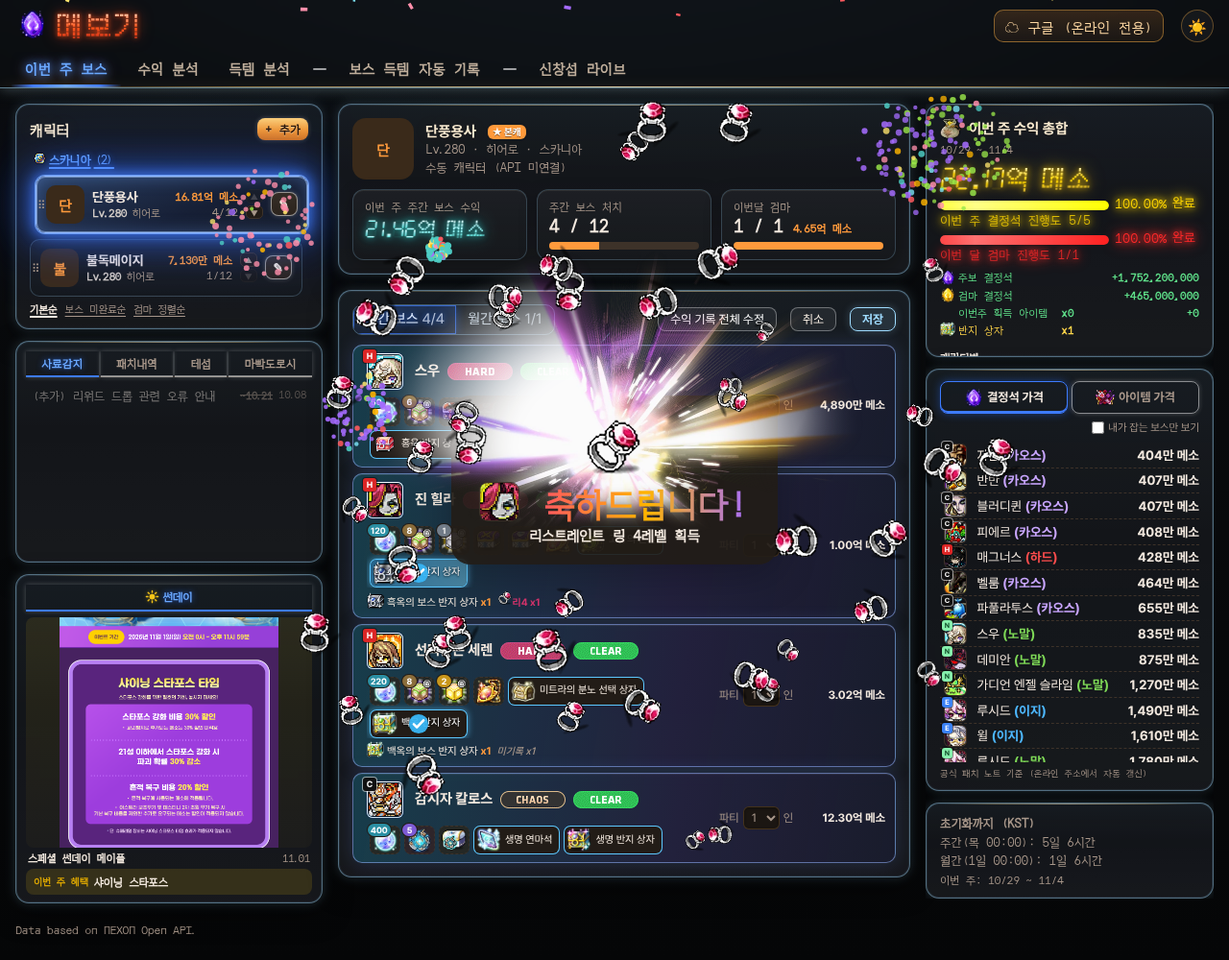
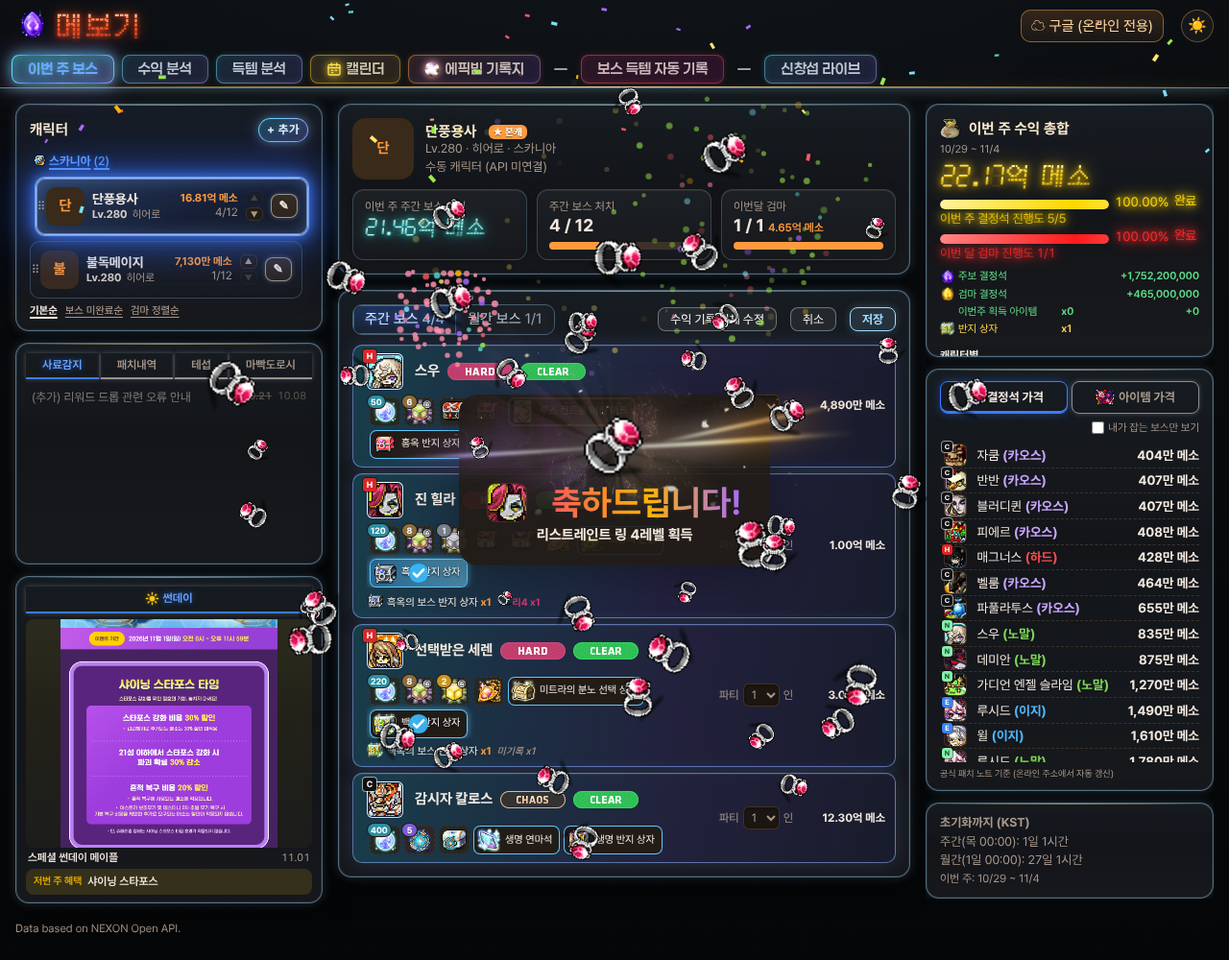
b362: 에픽빔 클립 카드 4줄 제목 정렬(고정 아이콘 칸 grid·말줄임), b363: 라이브 화면 '영역 보기' 버튼·겹쳐 그리기 제거, test_b362

diff --git a/index.html b/index.html
@@ -2159,20 +2159,20 @@ header .hbtn.arbtn.on{border-color:#5fd38a;color:#bff5d0}
 /* t523: 고급 네온 버튼 — 안내창 '확인' · '영역 숨기기/보기' · 캐릭터 '추가' (b297ui 네온과 같은 색: 시안 → 보라) */
 :root{--nb1:#5ee7ff;--nb2:#b48cff;--nbbg:rgba(12,16,30,.78);--nbtx:#eaf6ff}
 [data-theme=light]{--nb1:#0aa6d6;--nb2:#7b53e6;--nbbg:rgba(255,255,255,.9);--nbtx:#1a2236}
-#arGuide .ar-gf .btn[data-arg="ok"],#arPanel .btn.ar-roib,#addCharBtn,#importAccBtn{position:relative;isolation:isolate;color:var(--nbtx)!important;font-weight:700;letter-spacing:.04em;
+#arGuide .ar-gf .btn[data-arg="ok"],#addCharBtn,#importAccBtn{position:relative;isolation:isolate;color:var(--nbtx)!important;font-weight:700;letter-spacing:.04em;
   background:linear-gradient(var(--nbbg),var(--nbbg)) padding-box,linear-gradient(135deg,var(--nb1),var(--nb2)) border-box!important;border:1.5px solid transparent!important;border-radius:999px;
   box-shadow:0 0 10px color-mix(in srgb,var(--nb1) 38%,transparent),0 0 22px color-mix(in srgb,var(--nb2) 22%,transparent),inset 0 0 10px color-mix(in srgb,var(--nb1) 14%,transparent)!important;
   text-shadow:0 0 8px color-mix(in srgb,var(--nb1) 55%,transparent);transition:box-shadow .2s,transform .15s,filter .2s}
-[data-theme=light] #arGuide .ar-gf .btn[data-arg="ok"],[data-theme=light] #arPanel .btn.ar-roib,[data-theme=light] #addCharBtn,[data-theme=light] #importAccBtn{
+[data-theme=light] #arGuide .ar-gf .btn[data-arg="ok"],[data-theme=light] #addCharBtn,[data-theme=light] #importAccBtn{
   box-shadow:0 2px 10px rgba(40,60,120,.12),0 0 12px color-mix(in srgb,var(--nb1) 26%,transparent),inset 0 1px 0 rgba(255,255,255,.9)!important;text-shadow:none}
-#arGuide .ar-gf .btn[data-arg="ok"]:hover,#arPanel .btn.ar-roib:hover,#addCharBtn:hover,#importAccBtn:hover{transform:translateY(-1px);filter:brightness(1.08);
+#arGuide .ar-gf .btn[data-arg="ok"]:hover:hover,#addCharBtn:hover,#importAccBtn:hover{transform:translateY(-1px);filter:brightness(1.08);
   box-shadow:0 0 14px color-mix(in srgb,var(--nb1) 60%,transparent),0 0 34px color-mix(in srgb,var(--nb2) 35%,transparent),inset 0 0 12px color-mix(in srgb,var(--nb1) 22%,transparent)!important}
-#arGuide .ar-gf .btn[data-arg="ok"]:active,#arPanel .btn.ar-roib:active,#addCharBtn:active,#importAccBtn:active{transform:translateY(0) scale(.98)}
-#arGuide .ar-gf .btn[data-arg="ok"]:focus-visible,#arPanel .btn.ar-roib:focus-visible,#addCharBtn:focus-visible,#importAccBtn:focus-visible{outline:2px solid var(--nb1);outline-offset:3px}
+#arGuide .ar-gf .btn[data-arg="ok"]:active:active,#addCharBtn:active,#importAccBtn:active{transform:translateY(0) scale(.98)}
+#arGuide .ar-gf .btn[data-arg="ok"]:focus-visible:focus-visible,#addCharBtn:focus-visible,#importAccBtn:focus-visible{outline:2px solid var(--nb1);outline-offset:3px}
 #arGuide .ar-gf .btn[data-arg="ok"]{min-width:120px;padding:8px 26px}
 #view .card.empty #importAccBtn::after,#view .dmkey #importAccBtn::after{box-shadow:0 0 8px 1px color-mix(in srgb,var(--nb1) 60%,transparent),0 0 26px 4px color-mix(in srgb,var(--nb2) 30%,transparent)}
 #arPanel .ar-prof{margin-left:8px;font-size:.74rem;font-weight:600;letter-spacing:.02em;color:var(--gtxt);opacity:.85;white-space:nowrap}
-@media (prefers-reduced-motion:reduce){#arGuide .ar-gf .btn[data-arg="ok"],#arPanel .btn.ar-roib,#addCharBtn,#importAccBtn{transition:none}}
+@media (prefers-reduced-motion:reduce){#arGuide .ar-gf .btn[data-arg="ok"],#addCharBtn,#importAccBtn{transition:none}}
 
 /* t520u: 최근 보유 메소 — '이번달 검마' 칸 바로 위 (3열 중 셋째 칸에 맞춤) */
 .mesorow{display:grid;grid-template-columns:repeat(3,minmax(0,1fr));gap:10px;margin:0 0 4px}
@@ -2424,13 +2424,18 @@ nav.tabs button .ecico{display:inline-block;width:16px;height:16px;vertical-alig
 .ecthumb{position:relative;aspect-ratio:16/9;background:#000}.ecthumb img{width:100%;height:100%;object-fit:cover;display:block}
 .ecplay{position:absolute;inset:0;margin:auto;width:38px;height:38px;border-radius:50%;display:grid;place-items:center;background:rgba(0,0,0,.55);color:#fff;font-size:15px;box-shadow:0 0 10px rgba(255,154,60,.7)}
 .ecdur{position:absolute;right:6px;bottom:5px;font-size:.7rem;padding:1px 6px;border-radius:6px;background:rgba(0,0,0,.65);color:#ffd8a8}
-.ectl{padding:8px 10px 10px;display:flex;flex-direction:column;gap:4px;font-size:.84rem;color:#f1e6ff}
-.ectl>div{display:flex;align-items:center;gap:6px;min-width:0;white-space:nowrap}.ectl>div>span:last-child{overflow:hidden;text-overflow:ellipsis}
+.ectl{padding:8px 10px 10px;display:flex;flex-direction:column;gap:4px;font-size:.84rem;color:#f1e6ff;min-width:0}
+.ectl>div{display:grid;grid-template-columns:24px minmax(0,1fr);column-gap:8px;align-items:center;min-height:24px;min-width:0;white-space:nowrap;line-height:1.25}
+.ectl>div>span:last-child{display:block;min-width:0;overflow:hidden;text-overflow:ellipsis;white-space:nowrap}
+.ectl>.ecl1{grid-template-columns:minmax(0,1fr);min-height:18px}
 .ecl1{font-variant-numeric:tabular-nums;color:#ffcf8a;font-size:.8rem}
-.ectl img,.ectl .bicon{width:22px!important;height:22px!important;flex:none;border-radius:4px}
-.ectl .avatar.ecav{width:24px;height:24px;flex:none;border-radius:50%;overflow:hidden;display:grid;place-items:center;font-size:.7rem;background:rgba(255,255,255,.08)}
-.ectl .avatar.ecav img{width:48px!important;height:48px!important;object-fit:cover;object-position:50% 30%;border-radius:0}
-.ecq{width:22px;height:22px;flex:none;display:grid;place-items:center;border-radius:4px;background:rgba(255,255,255,.08);opacity:.6}
+.ectl .ecic{width:24px;height:24px;display:grid;place-items:center;overflow:hidden;font-style:normal;flex:none}
+.ectl .ecic>*{max-width:24px;max-height:24px}
+.ectl .ecic img,.ectl .ecic .bicon{width:22px!important;height:22px!important;object-fit:contain;flex:none;border-radius:4px;margin:0!important;vertical-align:middle}
+.ectl .ecic .hongico{position:relative;width:22px;height:22px;display:block;gap:0}.ectl .ecic .hongico>:first-child{width:22px!important;height:22px!important}.ectl .ecic .hongico>:last-child{position:absolute;right:-1px;bottom:-1px;width:11px!important;height:11px!important}
+.ectl .avatar.ecav{width:24px;height:24px;flex:none;border-radius:50%;overflow:hidden;display:grid;place-items:center;font-size:.7rem;background:rgba(255,255,255,.08);margin:0}
+.ectl .avatar.ecav img{width:48px!important;height:48px!important;max-width:none;max-height:none;object-fit:cover;object-position:50% 30%;border-radius:0}
+.ecq{width:22px;height:22px;flex:none;display:grid;place-items:center;border-radius:4px;background:rgba(255,255,255,.08);opacity:.6;font-style:normal}
 .ecempty{padding:40px;text-align:center;opacity:.6}
 .ecpg{display:flex;justify-content:center;gap:6px;margin-top:16px}
 .ecpb{cursor:pointer;font:inherit;min-width:34px;padding:5px 10px;border-radius:8px;border:1.5px solid rgba(255,154,60,.5);background:transparent;color:#ffd8a8}
@@ -2439,7 +2444,7 @@ nav.tabs button .ecico{display:inline-block;width:16px;height:16px;vertical-alig
 .ecbox{position:relative;width:min(92vw,1100px);border-radius:14px;overflow:hidden;background:#0d0a14;border:1.5px solid #ff9a3c;box-shadow:0 0 24px rgba(255,154,60,.6),0 0 60px rgba(180,107,255,.35)}
 .ecbox canvas{display:block;width:100%;height:auto;background:#000}
 .ecbar{height:4px;background:rgba(255,255,255,.1)}.ecbar i{display:block;height:100%;width:0;background:linear-gradient(90deg,#ff9a3c,#b46bff)}
-.ecmeta{display:flex;flex-wrap:wrap;align-items:center;gap:6px 18px;padding:10px 14px;color:#f1e6ff}.ecmeta .ectl{flex-direction:row;flex-wrap:wrap;gap:6px 18px;padding:0}
+.ecmeta{display:flex;flex-wrap:wrap;align-items:center;gap:6px 18px;padding:10px 14px;color:#f1e6ff}.ecmeta .ectl>div{display:flex;gap:6px}.ecmeta .ectl{flex-direction:row;flex-wrap:wrap;gap:6px 18px;padding:0}
 .ectime{margin-left:auto;font-variant-numeric:tabular-nums;color:#ffcf8a}
 .ecx{position:absolute;top:8px;right:8px;z-index:1;cursor:pointer;width:32px;height:32px;border-radius:50%;border:1px solid rgba(255,255,255,.4);background:rgba(0,0,0,.6);color:#fff;font-size:16px}
 [data-theme=light] .eccard{background:#fffaf4;border-color:rgba(224,112,0,.5)}[data-theme=light] .ectl{color:#3a2a4a}[data-theme=light] .ecl1{color:#a05000}[data-theme=light] .echd h2{color:#a05000;text-shadow:none}
@@ -8170,7 +8175,7 @@ function renderAuto(){ const v=$('#view'); v.innerHTML='<div id="arPanel" class=
 function arPanel(open){ if(open&&typeof tab!=='undefined'&&tab!=='auto'&&typeof render==='function'){ tab='auto'; render(); return; } arPanelPaint(); }
 function arPanelBind(p){ {
     p.addEventListener('click',e=>{ const a=e.target.closest('[data-ar]')?.dataset.ar; if(!a) return;
-      if(a==='guide') return; if(a==='roi'){ ARX.cfg.roi=!ARX.cfg.roi; arSave(); } else if(a==='stop') arDisconnect(); else if(a==='connect') arConnect(); else if(a.startsWith('pick:')){ const [,i,k]=a.split(':'), A=(ARX.amb||[])[+i]; if(A){ ARX.amb.splice(+i,1); arRecord(k,A.score,A.via+' 직접 고름'); arPanelPaint(); } }
+      if(a==='guide') return; if(a==='stop') arDisconnect(); else if(a==='connect') arConnect(); else if(a.startsWith('pick:')){ const [,i,k]=a.split(':'), A=(ARX.amb||[])[+i]; if(A){ ARX.amb.splice(+i,1); arRecord(k,A.score,A.via+' 직접 고름'); arPanelPaint(); } }
       else if(a==='bindmap'){ const t=arNorm(ARX.mapText), bid=ARX.cfg.boss; if(t&&bid){ ARX.cfg.mapAlias[t]={boss:bid,diff:''}; arSave(); arLog(`맵 등록: ${ARX.mapText} → ${findBoss(bid)?.name}`); } }
       else if(a==='reset'){ const keep=ARX.cfg.mapAlias; ARX.cfg=Object.assign({},AR_DEF,{mapAlias:keep}); arSave(); }
       arPanelPaint(); });
@@ -8202,14 +8207,14 @@ function arPanelLive(p,pipOnly){ p=p||$('#arPanel'); if(!p||(!pipOnly&&(p.hidden
   { const cb=arPipCard(p); if(cb) arPipBind(cb); }
   if(arPipQ(p,'.ar-cboss .ar-b')) arSetH(arPipQ(p,'.ar-cboss .ar-b'),((bst==='rew'?`<div class="ar-bst rew"><i class="ar-dot"></i>보상 인식 중</div>`:'')+(bst==='rew'&&detB?`<div class="ar-big ar-bline">${typeof bossIcon==='function'?bossIcon(detB):''}<span class="ar-bn">${esc(detB.name)}</span>${detD?' '+(typeof diffImg==='function'?diffImg(detD):esc(D[detD])):''}</div>`
     :`<div class="ar-big dim">-</div>`))+arClrLine()); const bc=arPipQ(p,'.ar-cboss .ar-b'); if(bc&&bc._arFit!==bc._arH){ bc._arFit=bc._arH; arFitBoss(); } if(ARX.pip) arPipRec();
-  if(pipOnly) return; q('.ar-roib').textContent=c.roi?'영역 숨기기':'영역 보기'; { const pl=q('.ar-prof'); if(pl){ const L=arProfLab(); pl.textContent=L?L:(ARX.stream?'해상도 확인 중…':''); pl.title=L?'화면 공유 영상에서 자동 감지한 해상도·UI 비율':''; } } 
+  if(pipOnly) return; { const pl=q('.ar-prof'); if(pl){ const L=arProfLab(); pl.textContent=L?L:(ARX.stream?'해상도 확인 중…':''); pl.title=L?'화면 공유 영상에서 자동 감지한 해상도·UI 비율':''; } } 
   }
 function arPanelPaint(){ const p=$('#arPanel'); if(!p||p.hidden) return; const c=ARX.cfg, t=arTarget(), on=arLive(), dn=k=>({log:'획득 로그',banner:'획득 배너',item:'바닥 아이콘',map:'맵 이름',name:'상태바 이름'})[k];
   const detC=S.characters.find(x=>x.id===ARX.det.cid), bst=arBossState(), detB=(ARX.det.boss&&findBoss(ARX.det.boss))||(bst&&bst!=='rew'&&ARX.mapSt&&findBoss(ARX.mapSt.boss)), detD=ARX.det.boss?ARX.det.diff:(ARX.mapSt?.diff||''), mapN=(AR_REWARD.find(m=>m[1]===ARX.det.boss)||[''])[0], acc=detC&&typeof accOf==='function'?accOf(detC):null;
   if(!p.querySelector('.ar-g')){ p.innerHTML=`<div class="ar-sbar"></div><div class="ar-g">
     <div class="card ar-c ar-cchar"><h2>캐릭터 정보</h2><div class="ar-b"></div></div>
     <div class="card ar-c ar-cboss"><h2>보상 맵 인식 <span class="hspace"></span><button type="button" class="btn sm ar-pipb" title="작은 창으로 항상 맨 위에 띄우기 (크롬/엣지 116+)">PIP</button></h2><div class="ar-pipmsg" hidden></div><div class="ar-b"></div></div>
-    <div class="card ar-c ar-clive"><h2>라이브 화면 <span class="hspace"></span><button type="button" class="btn sm ar-roib" data-ar="roi"></button><span class="ar-prof"></span></h2><div class="ar-vw"><video class="ar-vid" muted playsinline autoplay></video><canvas class="ar-prev" width="1280" height="720"></canvas><div class="ar-vnone">연결하면 게임 화면이 여기에 보여요</div></div><div class="ar-b ar-regs"></div></div>
+    <div class="card ar-c ar-clive"><h2>라이브 화면 <span class="hspace"></span><span class="ar-prof"></span></h2><div class="ar-vw"><video class="ar-vid" muted playsinline autoplay></video><canvas class="ar-prev" width="1280" height="720"></canvas><div class="ar-vnone">연결하면 게임 화면이 여기에 보여요</div></div><div class="ar-b ar-regs"></div></div>
     <div class="card ar-c ar-crec"><h2>현재까지 기록</h2><div class="ar-b"></div></div>
     <div class="card ar-c ar-cset" hidden><div class="ar-b"></div></div></div>`; }
   const q=s=>p.querySelector(s), vid=q('.ar-vid'); if(vid){ const ss=on?ARX.stream:null; if(vid.srcObject!==ss){ vid.srcObject=ss; if(ss) vid.play().catch(()=>{}); } q('.ar-vw').classList.toggle('on',!!ss||!!ARX.testSrc); }
@@ -8230,10 +8235,7 @@ function arPanelPaint(){ const p=$('#arPanel'); if(!p||p.hidden) return; const c
     ${ARX.ocrErr?'<p class="ar-err">글자 읽기(OCR) 불러오기 실패</p>':''}`);
   arPrev(); }
 function arPrev(){ const cv=$('#arPanel .ar-prev'); if(!cv) return; const g=cv.getContext('2d'); g.clearRect(0,0,cv.width,cv.height); const src=ARX.stream?null:ARX.testSrc;
-  if(src&&(src.videoWidth||src.width)) g.drawImage(src,0,0,cv.width,cv.height); if(!ARX.cfg.roi) return;
-  const fs=Math.max(11,Math.round(cv.width/48)); g.font=`700 ${fs}px system-ui,sans-serif`; g.textBaseline='bottom';
-  for(const [k,col,lb] of [['item','#ffb347','아이템 인식 영역'],['banner','#ffe066','획득 배너'],['log','#ff6bd0','획득 로그'],['map','#5ec8ff','미니맵 맵 이름'],['name','#7dff9a','닉네임'],['inv','#c0ff40','인벤토리 메소'],['sto','#40e0ff','창고 메소'],['stoInv','#40e0ff','창고 옆 인벤 메소']]){ const r=arR(k,ARX.video||ARX.testSrc); if(!r) continue; const x=r.x*cv.width, y=r.y*cv.height, w=r.w*cv.width, h=r.h*cv.height; g.strokeStyle=col; g.lineWidth=2; g.strokeRect(x,y,w,h);
-    const tw=g.measureText(lb).width+10, ly=y-fs-6<0?y+fs+6:y, lx=Math.min(Math.max(0,x),cv.width-tw); g.fillStyle='rgba(8,10,20,.82)'; g.fillRect(lx,ly-fs-6,tw,fs+6); g.fillStyle=col; g.fillText(lb,lx+5,ly-2); } }
+  if(src&&(src.videoWidth||src.width)) g.drawImage(src,0,0,cv.width,cv.height); } /* b363: '영역 보기' 겹쳐 그리기 제거 (인식 영역 arR 은 그대로) */
 /* b287: 분석 상태 — 분석 fps(배너 감시) · 놓친 프레임(영상 프레임 중 감시 못 한 것) · 바닥 찾기 횟수·건너뜀 · 1회 시간 */
 function arPerfText(){ const f=ARX.pf; if(!f||!ARX.video) return '분석 fps - · 놓친 프레임 -'; const s=Math.max(.001,(performance.now()-f.t0)/1000), L=f.last||{watched:0,missed:0,t:f.t0}, ds=Math.max(.001,(performance.now()-L.t)/1000);
   const fps=(f.watched-L.watched)/ds; return `분석 fps <b>${fps.toFixed(0)}</b> · 놓친 프레임 <b>${f.missed}</b>${f.watched?` (${(100*f.missed/(f.watched+f.missed)).toFixed(1)}%)`:''} · 배너 매칭 ${f.banners}회${f.banners?` (${(f.bannerMs/f.banners).toFixed(0)}ms)`:''} · 바닥/공중 ${f.items}회${ARX.itemMs?` (${ARX.itemMs.toFixed(0)}ms)`:''}${f.iskip?` · 건너뜀 ${f.iskip}`:''} · 공중 ${f.air||0}회${f.air?` (${((f.airMs||0)/f.air).toFixed(0)}ms)`:''}${f.airDrop?` · 버린 프레임 ${f.airDrop}`:''}${ARX.airHot?' · <b>full-rate</b>':''}${ARX.wk?'':' · Worker 없음'}`; }
@@ -8495,10 +8497,10 @@ const EC_URL=new Map();
 const ecUrl=(id,b)=>{ if(!EC_URL.has(id)) EC_URL.set(id,URL.createObjectURL(b)); return EC_URL.get(id); };
 function ecCard(m,i){ const b=BOSSES.find(x=>x.id===m.boss), c=(S.characters||[]).find(x=>x.id===m.cid), it=m.item&&ITEMS[m.item];
   return `<button class="eccard" data-ecopen="${esc(m.id)}" type="button"><div class="ecthumb">${m.poster?`<img src="${ecUrl(m.id,m.poster)}" alt="">`:'<span class="ecload">불러오는 중…</span>'}<span class="ecplay">▶</span><span class="ecdur">${Math.max(1,Math.round(((m.end||0)-(m.start||0)+100)/1000))}s</span>${ecBadge(m)}</div>
-  <div class="ectl"><div class="ecl1">${esc(ecWhen(m.t0))}</div>
-  <div class="ecl2">${b?bossIcon(b):''}<span>${esc(b?b.name:m.boss)}${m.diff?` (${esc(EC_DIFF[m.diff]||m.diff)})`:''}</span></div>
-  <div class="ecl3">${it?itemIcon(m.item):'<span class="ecq">?</span>'}<span>${it?esc(it.n):'아이템 확인 전'}</span></div>
-  <div class="ecl4">${c?avatar(c,'ecav'):'<span class="ecq">?</span>'}<span>${esc(c?c.name:(m.cname||'캐릭터 미확인'))}</span></div></div></button>`; }
+  <div class="ectl"><div class="ecl1"><span>${esc(ecWhen(m.t0))}</span></div>
+  <div class="ecl2"><i class="ecic">${b?bossIcon(b):'<span class="ecq">?</span>'}</i><span>${esc(b?b.name:m.boss)}${m.diff?` (${esc(EC_DIFF[m.diff]||m.diff)})`:''}</span></div>
+  <div class="ecl3"><i class="ecic">${it?itemIcon(m.item):'<span class="ecq">?</span>'}</i><span>${it?esc(it.n):'아이템 확인 전'}</span></div>
+  <div class="ecl4"><i class="ecic">${c?avatar(c,'ecav'):'<span class="ecq">?</span>'}</i><span>${esc(c?c.name:(m.cname||'캐릭터 미확인'))}</span></div></div></button>`; }
 async function renderEpic(){ const v=$('#view'); if(!v) return; let L=[]; ecSyncSoon(); try{ L=await ecList(); }catch(e){ v.innerHTML='<div class="card ecwrap"><p>이 브라우저는 IndexedDB 를 쓸 수 없어 에픽빔 클립을 저장할 수 없어요.</p></div>'; return; }
   if(typeof tab!=='undefined'&&tab!=='epic') return;
   const P=EC.cfg.per, np=Math.max(1,Math.ceil(L.length/P)); EC.page=Math.min(Math.max(0,EC.page),np-1); const pg=L.slice(EC.page*P,EC.page*P+P);

diff --git a/src/extra.css b/src/extra.css
@@ -2035,20 +2035,20 @@ header .hbtn.arbtn.on{border-color:#5fd38a;color:#bff5d0}
 /* t523: 고급 네온 버튼 — 안내창 '확인' · '영역 숨기기/보기' · 캐릭터 '추가' (b297ui 네온과 같은 색: 시안 → 보라) */
 :root{--nb1:#5ee7ff;--nb2:#b48cff;--nbbg:rgba(12,16,30,.78);--nbtx:#eaf6ff}
 [data-theme=light]{--nb1:#0aa6d6;--nb2:#7b53e6;--nbbg:rgba(255,255,255,.9);--nbtx:#1a2236}
-#arGuide .ar-gf .btn[data-arg="ok"],#arPanel .btn.ar-roib,#addCharBtn,#importAccBtn{position:relative;isolation:isolate;color:var(--nbtx)!important;font-weight:700;letter-spacing:.04em;
+#arGuide .ar-gf .btn[data-arg="ok"],#addCharBtn,#importAccBtn{position:relative;isolation:isolate;color:var(--nbtx)!important;font-weight:700;letter-spacing:.04em;
   background:linear-gradient(var(--nbbg),var(--nbbg)) padding-box,linear-gradient(135deg,var(--nb1),var(--nb2)) border-box!important;border:1.5px solid transparent!important;border-radius:999px;
   box-shadow:0 0 10px color-mix(in srgb,var(--nb1) 38%,transparent),0 0 22px color-mix(in srgb,var(--nb2) 22%,transparent),inset 0 0 10px color-mix(in srgb,var(--nb1) 14%,transparent)!important;
   text-shadow:0 0 8px color-mix(in srgb,var(--nb1) 55%,transparent);transition:box-shadow .2s,transform .15s,filter .2s}
-[data-theme=light] #arGuide .ar-gf .btn[data-arg="ok"],[data-theme=light] #arPanel .btn.ar-roib,[data-theme=light] #addCharBtn,[data-theme=light] #importAccBtn{
+[data-theme=light] #arGuide .ar-gf .btn[data-arg="ok"],[data-theme=light] #addCharBtn,[data-theme=light] #importAccBtn{
   box-shadow:0 2px 10px rgba(40,60,120,.12),0 0 12px color-mix(in srgb,var(--nb1) 26%,transparent),inset 0 1px 0 rgba(255,255,255,.9)!important;text-shadow:none}
-#arGuide .ar-gf .btn[data-arg="ok"]:hover,#arPanel .btn.ar-roib:hover,#addCharBtn:hover,#importAccBtn:hover{transform:translateY(-1px);filter:brightness(1.08);
+#arGuide .ar-gf .btn[data-arg="ok"]:hover:hover,#addCharBtn:hover,#importAccBtn:hover{transform:translateY(-1px);filter:brightness(1.08);
   box-shadow:0 0 14px color-mix(in srgb,var(--nb1) 60%,transparent),0 0 34px color-mix(in srgb,var(--nb2) 35%,transparent),inset 0 0 12px color-mix(in srgb,var(--nb1) 22%,transparent)!important}
-#arGuide .ar-gf .btn[data-arg="ok"]:active,#arPanel .btn.ar-roib:active,#addCharBtn:active,#importAccBtn:active{transform:translateY(0) scale(.98)}
-#arGuide .ar-gf .btn[data-arg="ok"]:focus-visible,#arPanel .btn.ar-roib:focus-visible,#addCharBtn:focus-visible,#importAccBtn:focus-visible{outline:2px solid var(--nb1);outline-offset:3px}
+#arGuide .ar-gf .btn[data-arg="ok"]:active:active,#addCharBtn:active,#importAccBtn:active{transform:translateY(0) scale(.98)}
+#arGuide .ar-gf .btn[data-arg="ok"]:focus-visible:focus-visible,#addCharBtn:focus-visible,#importAccBtn:focus-visible{outline:2px solid var(--nb1);outline-offset:3px}
 #arGuide .ar-gf .btn[data-arg="ok"]{min-width:120px;padding:8px 26px}
 #view .card.empty #importAccBtn::after,#view .dmkey #importAccBtn::after{box-shadow:0 0 8px 1px color-mix(in srgb,var(--nb1) 60%,transparent),0 0 26px 4px color-mix(in srgb,var(--nb2) 30%,transparent)}
 #arPanel .ar-prof{margin-left:8px;font-size:.74rem;font-weight:600;letter-spacing:.02em;color:var(--gtxt);opacity:.85;white-space:nowrap}
-@media (prefers-reduced-motion:reduce){#arGuide .ar-gf .btn[data-arg="ok"],#arPanel .btn.ar-roib,#addCharBtn,#importAccBtn{transition:none}}
+@media (prefers-reduced-motion:reduce){#arGuide .ar-gf .btn[data-arg="ok"],#addCharBtn,#importAccBtn{transition:none}}
 
 /* t520u: 최근 보유 메소 — '이번달 검마' 칸 바로 위 (3열 중 셋째 칸에 맞춤) */
 .mesorow{display:grid;grid-template-columns:repeat(3,minmax(0,1fr));gap:10px;margin:0 0 4px}
@@ -2300,13 +2300,18 @@ nav.tabs button .ecico{display:inline-block;width:16px;height:16px;vertical-alig
 .ecthumb{position:relative;aspect-ratio:16/9;background:#000}.ecthumb img{width:100%;height:100%;object-fit:cover;display:block}
 .ecplay{position:absolute;inset:0;margin:auto;width:38px;height:38px;border-radius:50%;display:grid;place-items:center;background:rgba(0,0,0,.55);color:#fff;font-size:15px;box-shadow:0 0 10px rgba(255,154,60,.7)}
 .ecdur{position:absolute;right:6px;bottom:5px;font-size:.7rem;padding:1px 6px;border-radius:6px;background:rgba(0,0,0,.65);color:#ffd8a8}
-.ectl{padding:8px 10px 10px;display:flex;flex-direction:column;gap:4px;font-size:.84rem;color:#f1e6ff}
-.ectl>div{display:flex;align-items:center;gap:6px;min-width:0;white-space:nowrap}.ectl>div>span:last-child{overflow:hidden;text-overflow:ellipsis}
+.ectl{padding:8px 10px 10px;display:flex;flex-direction:column;gap:4px;font-size:.84rem;color:#f1e6ff;min-width:0}
+.ectl>div{display:grid;grid-template-columns:24px minmax(0,1fr);column-gap:8px;align-items:center;min-height:24px;min-width:0;white-space:nowrap;line-height:1.25}
+.ectl>div>span:last-child{display:block;min-width:0;overflow:hidden;text-overflow:ellipsis;white-space:nowrap}
+.ectl>.ecl1{grid-template-columns:minmax(0,1fr);min-height:18px}
 .ecl1{font-variant-numeric:tabular-nums;color:#ffcf8a;font-size:.8rem}
-.ectl img,.ectl .bicon{width:22px!important;height:22px!important;flex:none;border-radius:4px}
-.ectl .avatar.ecav{width:24px;height:24px;flex:none;border-radius:50%;overflow:hidden;display:grid;place-items:center;font-size:.7rem;background:rgba(255,255,255,.08)}
-.ectl .avatar.ecav img{width:48px!important;height:48px!important;object-fit:cover;object-position:50% 30%;border-radius:0}
-.ecq{width:22px;height:22px;flex:none;display:grid;place-items:center;border-radius:4px;background:rgba(255,255,255,.08);opacity:.6}
+.ectl .ecic{width:24px;height:24px;display:grid;place-items:center;overflow:hidden;font-style:normal;flex:none}
+.ectl .ecic>*{max-width:24px;max-height:24px}
+.ectl .ecic img,.ectl .ecic .bicon{width:22px!important;height:22px!important;object-fit:contain;flex:none;border-radius:4px;margin:0!important;vertical-align:middle}
+.ectl .ecic .hongico{position:relative;width:22px;height:22px;display:block;gap:0}.ectl .ecic .hongico>:first-child{width:22px!important;height:22px!important}.ectl .ecic .hongico>:last-child{position:absolute;right:-1px;bottom:-1px;width:11px!important;height:11px!important}
+.ectl .avatar.ecav{width:24px;height:24px;flex:none;border-radius:50%;overflow:hidden;display:grid;place-items:center;font-size:.7rem;background:rgba(255,255,255,.08);margin:0}
+.ectl .avatar.ecav img{width:48px!important;height:48px!important;max-width:none;max-height:none;object-fit:cover;object-position:50% 30%;border-radius:0}
+.ecq{width:22px;height:22px;flex:none;display:grid;place-items:center;border-radius:4px;background:rgba(255,255,255,.08);opacity:.6;font-style:normal}
 .ecempty{padding:40px;text-align:center;opacity:.6}
 .ecpg{display:flex;justify-content:center;gap:6px;margin-top:16px}
 .ecpb{cursor:pointer;font:inherit;min-width:34px;padding:5px 10px;border-radius:8px;border:1.5px solid rgba(255,154,60,.5);background:transparent;color:#ffd8a8}
@@ -2315,7 +2320,7 @@ nav.tabs button .ecico{display:inline-block;width:16px;height:16px;vertical-alig
 .ecbox{position:relative;width:min(92vw,1100px);border-radius:14px;overflow:hidden;background:#0d0a14;border:1.5px solid #ff9a3c;box-shadow:0 0 24px rgba(255,154,60,.6),0 0 60px rgba(180,107,255,.35)}
 .ecbox canvas{display:block;width:100%;height:auto;background:#000}
 .ecbar{height:4px;background:rgba(255,255,255,.1)}.ecbar i{display:block;height:100%;width:0;background:linear-gradient(90deg,#ff9a3c,#b46bff)}
-.ecmeta{display:flex;flex-wrap:wrap;align-items:center;gap:6px 18px;padding:10px 14px;color:#f1e6ff}.ecmeta .ectl{flex-direction:row;flex-wrap:wrap;gap:6px 18px;padding:0}
+.ecmeta{display:flex;flex-wrap:wrap;align-items:center;gap:6px 18px;padding:10px 14px;color:#f1e6ff}.ecmeta .ectl>div{display:flex;gap:6px}.ecmeta .ectl{flex-direction:row;flex-wrap:wrap;gap:6px 18px;padding:0}
 .ectime{margin-left:auto;font-variant-numeric:tabular-nums;color:#ffcf8a}
 .ecx{position:absolute;top:8px;right:8px;z-index:1;cursor:pointer;width:32px;height:32px;border-radius:50%;border:1px solid rgba(255,255,255,.4);background:rgba(0,0,0,.6);color:#fff;font-size:16px}
 [data-theme=light] .eccard{background:#fffaf4;border-color:rgba(224,112,0,.5)}[data-theme=light] .ectl{color:#3a2a4a}[data-theme=light] .ecl1{color:#a05000}[data-theme=light] .echd h2{color:#a05000;text-shadow:none}

diff --git a/src/autorec.js b/src/autorec.js
@@ -992,7 +992,7 @@ function renderAuto(){ const v=$('#view'); v.innerHTML='<div id="arPanel" class=
 function arPanel(open){ if(open&&typeof tab!=='undefined'&&tab!=='auto'&&typeof render==='function'){ tab='auto'; render(); return; } arPanelPaint(); }
 function arPanelBind(p){ {
     p.addEventListener('click',e=>{ const a=e.target.closest('[data-ar]')?.dataset.ar; if(!a) return;
-      if(a==='guide') return; if(a==='roi'){ ARX.cfg.roi=!ARX.cfg.roi; arSave(); } else if(a==='stop') arDisconnect(); else if(a==='connect') arConnect(); else if(a.startsWith('pick:')){ const [,i,k]=a.split(':'), A=(ARX.amb||[])[+i]; if(A){ ARX.amb.splice(+i,1); arRecord(k,A.score,A.via+' 직접 고름'); arPanelPaint(); } }
+      if(a==='guide') return; if(a==='stop') arDisconnect(); else if(a==='connect') arConnect(); else if(a.startsWith('pick:')){ const [,i,k]=a.split(':'), A=(ARX.amb||[])[+i]; if(A){ ARX.amb.splice(+i,1); arRecord(k,A.score,A.via+' 직접 고름'); arPanelPaint(); } }
       else if(a==='bindmap'){ const t=arNorm(ARX.mapText), bid=ARX.cfg.boss; if(t&&bid){ ARX.cfg.mapAlias[t]={boss:bid,diff:''}; arSave(); arLog(`맵 등록: ${ARX.mapText} → ${findBoss(bid)?.name}`); } }
       else if(a==='reset'){ const keep=ARX.cfg.mapAlias; ARX.cfg=Object.assign({},AR_DEF,{mapAlias:keep}); arSave(); }
       arPanelPaint(); });
@@ -1024,14 +1024,14 @@ function arPanelLive(p,pipOnly){ p=p||$('#arPanel'); if(!p||(!pipOnly&&(p.hidden
   { const cb=arPipCard(p); if(cb) arPipBind(cb); }
   if(arPipQ(p,'.ar-cboss .ar-b')) arSetH(arPipQ(p,'.ar-cboss .ar-b'),((bst==='rew'?`<div class="ar-bst rew"><i class="ar-dot"></i>보상 인식 중</div>`:'')+(bst==='rew'&&detB?`<div class="ar-big ar-bline">${typeof bossIcon==='function'?bossIcon(detB):''}<span class="ar-bn">${esc(detB.name)}</span>${detD?' '+(typeof diffImg==='function'?diffImg(detD):esc(D[detD])):''}</div>`
     :`<div class="ar-big dim">-</div>`))+arClrLine()); const bc=arPipQ(p,'.ar-cboss .ar-b'); if(bc&&bc._arFit!==bc._arH){ bc._arFit=bc._arH; arFitBoss(); } if(ARX.pip) arPipRec();
-  if(pipOnly) return; q('.ar-roib').textContent=c.roi?'영역 숨기기':'영역 보기'; { const pl=q('.ar-prof'); if(pl){ const L=arProfLab(); pl.textContent=L?L:(ARX.stream?'해상도 확인 중…':''); pl.title=L?'화면 공유 영상에서 자동 감지한 해상도·UI 비율':''; } } 
+  if(pipOnly) return; { const pl=q('.ar-prof'); if(pl){ const L=arProfLab(); pl.textContent=L?L:(ARX.stream?'해상도 확인 중…':''); pl.title=L?'화면 공유 영상에서 자동 감지한 해상도·UI 비율':''; } } 
   }
 function arPanelPaint(){ const p=$('#arPanel'); if(!p||p.hidden) return; const c=ARX.cfg, t=arTarget(), on=arLive(), dn=k=>({log:'획득 로그',banner:'획득 배너',item:'바닥 아이콘',map:'맵 이름',name:'상태바 이름'})[k];
   const detC=S.characters.find(x=>x.id===ARX.det.cid), bst=arBossState(), detB=(ARX.det.boss&&findBoss(ARX.det.boss))||(bst&&bst!=='rew'&&ARX.mapSt&&findBoss(ARX.mapSt.boss)), detD=ARX.det.boss?ARX.det.diff:(ARX.mapSt?.diff||''), mapN=(AR_REWARD.find(m=>m[1]===ARX.det.boss)||[''])[0], acc=detC&&typeof accOf==='function'?accOf(detC):null;
   if(!p.querySelector('.ar-g')){ p.innerHTML=`<div class="ar-sbar"></div><div class="ar-g">
     <div class="card ar-c ar-cchar"><h2>캐릭터 정보</h2><div class="ar-b"></div></div>
     <div class="card ar-c ar-cboss"><h2>보상 맵 인식 <span class="hspace"></span><button type="button" class="btn sm ar-pipb" title="작은 창으로 항상 맨 위에 띄우기 (크롬/엣지 116+)">PIP</button></h2><div class="ar-pipmsg" hidden></div><div class="ar-b"></div></div>
-    <div class="card ar-c ar-clive"><h2>라이브 화면 <span class="hspace"></span><button type="button" class="btn sm ar-roib" data-ar="roi"></button><span class="ar-prof"></span></h2><div class="ar-vw"><video class="ar-vid" muted playsinline autoplay></video><canvas class="ar-prev" width="1280" height="720"></canvas><div class="ar-vnone">연결하면 게임 화면이 여기에 보여요</div></div><div class="ar-b ar-regs"></div></div>
+    <div class="card ar-c ar-clive"><h2>라이브 화면 <span class="hspace"></span><span class="ar-prof"></span></h2><div class="ar-vw"><video class="ar-vid" muted playsinline autoplay></video><canvas class="ar-prev" width="1280" height="720"></canvas><div class="ar-vnone">연결하면 게임 화면이 여기에 보여요</div></div><div class="ar-b ar-regs"></div></div>
     <div class="card ar-c ar-crec"><h2>현재까지 기록</h2><div class="ar-b"></div></div>
     <div class="card ar-c ar-cset" hidden><div class="ar-b"></div></div></div>`; }
   const q=s=>p.querySelector(s), vid=q('.ar-vid'); if(vid){ const ss=on?ARX.stream:null; if(vid.srcObject!==ss){ vid.srcObject=ss; if(ss) vid.play().catch(()=>{}); } q('.ar-vw').classList.toggle('on',!!ss||!!ARX.testSrc); }
@@ -1052,10 +1052,7 @@ function arPanelPaint(){ const p=$('#arPanel'); if(!p||p.hidden) return; const c
     ${ARX.ocrErr?'<p class="ar-err">글자 읽기(OCR) 불러오기 실패</p>':''}`);
   arPrev(); }
 function arPrev(){ const cv=$('#arPanel .ar-prev'); if(!cv) return; const g=cv.getContext('2d'); g.clearRect(0,0,cv.width,cv.height); const src=ARX.stream?null:ARX.testSrc;
-  if(src&&(src.videoWidth||src.width)) g.drawImage(src,0,0,cv.width,cv.height); if(!ARX.cfg.roi) return;
-  const fs=Math.max(11,Math.round(cv.width/48)); g.font=`700 ${fs}px system-ui,sans-serif`; g.textBaseline='bottom';
-  for(const [k,col,lb] of [['item','#ffb347','아이템 인식 영역'],['banner','#ffe066','획득 배너'],['log','#ff6bd0','획득 로그'],['map','#5ec8ff','미니맵 맵 이름'],['name','#7dff9a','닉네임'],['inv','#c0ff40','인벤토리 메소'],['sto','#40e0ff','창고 메소'],['stoInv','#40e0ff','창고 옆 인벤 메소']]){ const r=arR(k,ARX.video||ARX.testSrc); if(!r) continue; const x=r.x*cv.width, y=r.y*cv.height, w=r.w*cv.width, h=r.h*cv.height; g.strokeStyle=col; g.lineWidth=2; g.strokeRect(x,y,w,h);
-    const tw=g.measureText(lb).width+10, ly=y-fs-6<0?y+fs+6:y, lx=Math.min(Math.max(0,x),cv.width-tw); g.fillStyle='rgba(8,10,20,.82)'; g.fillRect(lx,ly-fs-6,tw,fs+6); g.fillStyle=col; g.fillText(lb,lx+5,ly-2); } }
+  if(src&&(src.videoWidth||src.width)) g.drawImage(src,0,0,cv.width,cv.height); } /* b363: '영역 보기' 겹쳐 그리기 제거 (인식 영역 arR 은 그대로) */
 /* b287: 분석 상태 — 분석 fps(배너 감시) · 놓친 프레임(영상 프레임 중 감시 못 한 것) · 바닥 찾기 횟수·건너뜀 · 1회 시간 */
 function arPerfText(){ const f=ARX.pf; if(!f||!ARX.video) return '분석 fps - · 놓친 프레임 -'; const s=Math.max(.001,(performance.now()-f.t0)/1000), L=f.last||{watched:0,missed:0,t:f.t0}, ds=Math.max(.001,(performance.now()-L.t)/1000);
   const fps=(f.watched-L.watched)/ds; return `분석 fps <b>${fps.toFixed(0)}</b> · 놓친 프레임 <b>${f.missed}</b>${f.watched?` (${(100*f.missed/(f.watched+f.missed)).toFixed(1)}%)`:''} · 배너 매칭 ${f.banners}회${f.banners?` (${(f.bannerMs/f.banners).toFixed(0)}ms)`:''} · 바닥/공중 ${f.items}회${ARX.itemMs?` (${ARX.itemMs.toFixed(0)}ms)`:''}${f.iskip?` · 건너뜀 ${f.iskip}`:''} · 공중 ${f.air||0}회${f.air?` (${((f.airMs||0)/f.air).toFixed(0)}ms)`:''}${f.airDrop?` · 버린 프레임 ${f.airDrop}`:''}${ARX.airHot?' · <b>full-rate</b>':''}${ARX.wk?'':' · Worker 없음'}`; }

diff --git a/src/epicclip.js b/src/epicclip.js
@@ -125,10 +125,10 @@ const EC_URL=new Map();
 const ecUrl=(id,b)=>{ if(!EC_URL.has(id)) EC_URL.set(id,URL.createObjectURL(b)); return EC_URL.get(id); };
 function ecCard(m,i){ const b=BOSSES.find(x=>x.id===m.boss), c=(S.characters||[]).find(x=>x.id===m.cid), it=m.item&&ITEMS[m.item];
   return `<button class="eccard" data-ecopen="${esc(m.id)}" type="button"><div class="ecthumb">${m.poster?`<img src="${ecUrl(m.id,m.poster)}" alt="">`:'<span class="ecload">불러오는 중…</span>'}<span class="ecplay">▶</span><span class="ecdur">${Math.max(1,Math.round(((m.end||0)-(m.start||0)+100)/1000))}s</span>${ecBadge(m)}</div>
-  <div class="ectl"><div class="ecl1">${esc(ecWhen(m.t0))}</div>
-  <div class="ecl2">${b?bossIcon(b):''}<span>${esc(b?b.name:m.boss)}${m.diff?` (${esc(EC_DIFF[m.diff]||m.diff)})`:''}</span></div>
-  <div class="ecl3">${it?itemIcon(m.item):'<span class="ecq">?</span>'}<span>${it?esc(it.n):'아이템 확인 전'}</span></div>
-  <div class="ecl4">${c?avatar(c,'ecav'):'<span class="ecq">?</span>'}<span>${esc(c?c.name:(m.cname||'캐릭터 미확인'))}</span></div></div></button>`; }
+  <div class="ectl"><div class="ecl1"><span>${esc(ecWhen(m.t0))}</span></div>
+  <div class="ecl2"><i class="ecic">${b?bossIcon(b):'<span class="ecq">?</span>'}</i><span>${esc(b?b.name:m.boss)}${m.diff?` (${esc(EC_DIFF[m.diff]||m.diff)})`:''}</span></div>
+  <div class="ecl3"><i class="ecic">${it?itemIcon(m.item):'<span class="ecq">?</span>'}</i><span>${it?esc(it.n):'아이템 확인 전'}</span></div>
+  <div class="ecl4"><i class="ecic">${c?avatar(c,'ecav'):'<span class="ecq">?</span>'}</i><span>${esc(c?c.name:(m.cname||'캐릭터 미확인'))}</span></div></div></button>`; }
 async function renderEpic(){ const v=$('#view'); if(!v) return; let L=[]; ecSyncSoon(); try{ L=await ecList(); }catch(e){ v.innerHTML='<div class="card ecwrap"><p>이 브라우저는 IndexedDB 를 쓸 수 없어 에픽빔 클립을 저장할 수 없어요.</p></div>'; return; }
   if(typeof tab!=='undefined'&&tab!=='epic') return;
   const P=EC.cfg.per, np=Math.max(1,Math.ceil(L.length/P)); EC.page=Math.min(Math.max(0,EC.page),np-1); const pg=L.slice(EC.page*P,EC.page*P+P);

diff --git a/tests/test_b362_ecalign.py b/tests/test_b362_ecalign.py
@@ -1,0 +1,53 @@
+# test_b362 (t677): 에픽빔 기록지 클립 카드 4줄 제목 정렬 — 아이콘 칸 고정폭, 2~4줄 글자 x 동일(±1px), 세로 가운데, 긴 글자 말줄임.
+# 스크린샷: MBT_SHOTDIR(기본 tests/out) 에 b362_card.png, b362_card_light.png
+import os, sys, tempfile, shutil, subprocess
+sys.path.insert(0, os.path.dirname(os.path.abspath(__file__))); import _tutil
+ROOT=os.environ.get('B362_ROOT') or os.path.dirname(os.path.dirname(os.path.abspath(__file__))); OUT=os.environ.get('MBT_SHOTDIR') or os.path.join(os.path.dirname(os.path.dirname(os.path.abspath(__file__))),'tests','out'); os.makedirs(OUT,exist_ok=True)
+SHOT=os.environ.get('B362_SHOT','b362_card')
+fails=[]; errs=[]
+def check(n,c,d=''):
+    print(('PASS ' if c else 'FAIL ')+n+(' — '+str(d)[:400] if d!='' else ''))
+    if not c: fails.append(n)
+from playwright.sync_api import sync_playwright
+site=tempfile.mkdtemp()
+for f in ['index.html','prices.json']: shutil.copy(os.path.join(ROOT,f),site)
+for d in ['data','ocr','fonts']: shutil.copytree(os.path.join(ROOT,d),os.path.join(site,d))
+PORT=_tutil.free_port(); srv=_tutil.Popen([sys.executable,'-m','http.server',str(PORT),'--bind','127.0.0.1'],cwd=site,stdout=subprocess.DEVNULL,stderr=subprocess.DEVNULL)
+SETUP="""()=>{ const mk=(id,n)=>({id,name:n,level:285,job:'',world:'스카니아',ocid:'',accId:'',image:'',bosses:{},weekly:{},monthly:{},mdate:{},auto:{},drops:{},sync:{}});
+  S.characters=[mk('c0','아주아주아주긴닉네임테스트용캐릭터이름말줄임확인용입니다')]; S.activeId='c0'; save(); render();
+  const b=BOSSES.find(x=>x.id==='lucid'); const item=dropsFor(b,'hard').find(k=>ITEM_ICONS[k]);
+  const it=ITEMS[item]; it.n=it.n+' 아주 긴 아이템 이름 말줄임 확인용 텍스트';
+  b.name=b.name+' 아주 아주 긴 보스 이름 말줄임 확인용 텍스트';
+  const m={id:'t1',t0:Date.UTC(2026,10,3,12,34,56),boss:'lucid',diff:'hard',item,cid:'c0',start:-1000,end:2900,up:1,remote:false,poster:null};
+  const v=document.querySelector('#view'); v.innerHTML='<div class="card ecwrap" style="width:340px"><div class="ecgrid" style="grid-template-columns:1fr">'+ecCard(m,0)+'</div></div>'; return item; }"""
+MEAS="""()=>{ const c=document.querySelector('.eccard'), t=c.querySelector('.ectl'); const r=e=>e.getBoundingClientRect();
+  const rows=[...t.children].slice(0,4).map(d=>{ const s=d.querySelector(':scope>span:last-child')||d, ic=d.children.length>1?d.children[0]:null;
+    const rs=r(s), ri=ic?r(ic):null; return {x:rs.left, ell:s.scrollWidth>s.clientWidth+1, h:rs.height, cy:rs.top+rs.height/2, icx:ri&&ri.left, icw:ri&&ri.width, ich:ri&&ri.height, icy:ri&&(ri.top+ri.height/2), row:r(d).height}; });
+  return {rows, tl:r(t).left+parseFloat(getComputedStyle(t).paddingLeft), d1:(()=>{const g=document.createRange(); g.selectNodeContents(t.children[0]); return g.getBoundingClientRect().left;})()}; }"""
+try:
+  with sync_playwright() as p:
+    b=p.chromium.launch(executable_path=os.environ.get('CHROME') or None,args=['--no-sandbox'])
+    for theme in ['dark','light']:
+      pg=b.new_page(viewport={'width':900,'height':700},locale='ko-KR',color_scheme='dark',timezone_id='Asia/Seoul',device_scale_factor=2); pg.on('pageerror',lambda e:errs.append(str(e)))
+      pg.route('https://open.api.nexon.com/**',lambda r:r.abort()); pg.route('**/*workers.dev/**',lambda r:r.abort())
+      pg.goto(f'http://127.0.0.1:{PORT}/index.html'); pg.evaluate("localStorage.clear()"); pg.reload(); pg.wait_for_timeout(800)
+      pg.evaluate("t=>document.documentElement.setAttribute('data-theme',t)",theme)
+      pg.evaluate(SETUP); pg.wait_for_timeout(400)
+      pg.evaluate("()=>{ for(const e of document.querySelectorAll('body *')){ const c=getComputedStyle(e); if(c.position==='fixed'&&e.offsetWidth>=innerWidth*.9&&e.offsetHeight>=innerHeight*.9) e.style.display='none'; } }")
+      M=pg.evaluate(MEAS); R=M['rows']; print(theme,M)
+      pg.locator('.eccard').first.screenshot(path=os.path.join(OUT,SHOT+('' if theme=='dark' else '_light')+'.png'))
+      if theme=='dark':
+        xs=[r['x'] for r in R[1:]]
+        check('2~4줄 글자 왼쪽 x 동일(±1px)',max(xs)-min(xs)<=1,xs)
+        check('아이콘 칸 같은 크기·같은 x',len({(round(r['icw']),round(r['ich']),round(r['icx'])) for r in R[1:]})==1,[(r['icx'],r['icw'],r['ich']) for r in R[1:]])
+        check('날짜 줄 = 아이콘 칸 왼쪽 끝',abs(M['d1']-R[1]['icx'])<=1,(M['d1'],R[1]['icx']))
+        check('아이콘·글자 세로 가운데(±1px)',all(abs(r['cy']-r['icy'])<=1 for r in R[1:]),[(r['cy'],r['icy']) for r in R[1:]])
+        check('줄 높이 일정',len({round(r['row']) for r in R[1:]})==1,[r['row'] for r in R])
+        check('긴 글자 한 줄 말줄임',all(r['ell'] and r['h']<30 for r in R[1:]),[(r['ell'],r['h']) for r in R[1:]])
+      pg.close()
+    check('페이지 오류 없음',not errs,errs)
+    b.close()
+finally:
+  srv.kill()
+print('FAILS',fails) if fails else print('ALL PASS')
+sys.exit(1 if fails else 0)

diff --git a/tests/test_b301.py b/tests/test_b301.py
@@ -49,10 +49,10 @@ try:
       okb=pg.evaluate("""()=>{ const b=document.querySelector('#arGuide [data-arg="ok"]'); if(!b) return null; const cs=getComputedStyle(b); return {bg:cs.backgroundImage,sh:cs.boxShadow,r:cs.borderRadius}; }""")
       check(f'{th}: 안내창 확인 버튼 네온(그라디언트 테두리·빛)',bool(okb) and 'gradient' in okb['bg'] and okb['sh']!='none' and okb['r'].startswith('999'),okb)
       pg.evaluate("document.querySelector('#arGuide').hidden=true; const cv=document.createElement('canvas'); cv.width=1920; cv.height=1080; window.AR.testSrc=cv; window.AR.stream={getTracks:()=>[]}; window.AR.prof={id:'1920o',lab:'1920 x 1080(최적 비율)',s:1,gw:1920,gh:1080}; arPanel(true); arPanelPaint();")
-      r=pg.evaluate("""()=>{ const b=document.querySelector('#arPanel .ar-roib'), l=document.querySelector('#arPanel .ar-prof'), a=document.querySelector('#addCharBtn');
-        return {lab:l&&l.textContent, next:!!(b&&b.nextElementSibling===l), roiBg:b&&getComputedStyle(b).backgroundImage, addBg:a&&getComputedStyle(a).backgroundImage}; }""")
-      check(f'{th}: 영역 숨기기 옆 라벨',r['lab']=='1920 x 1080(최적 비율)' and r['next'],r)
-      check(f'{th}: 영역 버튼·캐릭터 추가 버튼 네온',r['roiBg'] and 'gradient' in r['roiBg'] and r['addBg'] and 'gradient' in r['addBg'],r)
+      r=pg.evaluate("""()=>{ const l=document.querySelector('#arPanel .ar-prof'), a=document.querySelector('#addCharBtn');
+        return {lab:l&&l.textContent, noroi:!document.querySelector('#arPanel .ar-roib'), addBg:a&&getComputedStyle(a).backgroundImage}; }""")
+      check(f'{th}: 해상도 라벨, 영역 버튼 없음(b363)',r['lab']=='1920 x 1080(최적 비율)' and r['noroi'],r)
+      check(f'{th}: 캐릭터 추가 버튼 네온',r['addBg'] and 'gradient' in r['addBg'],r)
       pg.evaluate("window.AR.stream=null; window.AR.testSrc=null; window.AR.prof=null")
     b.close()
 finally:

diff --git a/tests/test_b296.py b/tests/test_b296.py
@@ -69,14 +69,8 @@ try:
     pg.screenshot(path=os.path.join(OUT,'b296_panel_light.png'))
     # b297ui: 고정 영역 · 드래그 UI 없음 · 영역 보기 라벨
     pg.evaluate("()=>{ document.documentElement.dataset.theme='dark'; localStorage.setItem('mbt_autorec',JSON.stringify({log:{x:.1,y:.1,w:.1,h:.1}})); }")
-    r=pg.evaluate("""()=>{ const T=document.querySelector('#arPanel').innerText; const btn=document.querySelector('#arPanel .ar-roib'); const before=btn.textContent; btn.click();
-      return {before, after:document.querySelector('#arPanel .ar-roib').textContent, drag:/드래그/.test(document.querySelector('#arPanel').innerText), regs:!!document.querySelector('#arPanel .ar-regs button'), log:JSON.stringify(window.AR.cfg.log)} }""")
-    check("'영역 보기' → '영역 숨기기' 그대로, '영역: … 화면에서 드래그' UI 없음", r['before']=='영역 보기' and r['after']=='영역 숨기기' and not r['drag'] and not r['regs'], r)
-    pg.wait_for_timeout(300)
-    pg.screenshot(path=os.path.join(OUT,'b297_roi_dark.png'))
-    pg.evaluate("()=>{ document.documentElement.dataset.theme='light'; }"); pg.wait_for_timeout(300)
-    pg.screenshot(path=os.path.join(OUT,'b297_roi_light.png'))
-    pg.evaluate("()=>document.querySelector('#arPanel .ar-roib').click()")
+    r=pg.evaluate("()=>({btn:!!document.querySelector('#arPanel .ar-roib,#arPanel [data-ar=roi]'), txt:/영역 (보기|숨기기)/.test(document.querySelector('#arPanel').innerText), drag:/드래그/.test(document.querySelector('#arPanel').innerText), regs:!!document.querySelector('#arPanel .ar-regs button')})")
+    check("b363: '영역 보기' 버튼 없음, 드래그 UI 없음", not r['btn'] and not r['txt'] and not r['drag'] and not r['regs'], r)
     b.close()
 finally:
     srv.terminate()

diff --git a/tests/test_b287.py b/tests/test_b287.py
@@ -63,8 +63,7 @@ try:
     # 4) 패널: 분석 fps · 놓친 프레임 · 미리보기 끄기
     pg.evaluate("()=>{ window.AR.pf={t0:performance.now()-2000,frames:120,watched:118,missed:2,bannerMs:30,banners:3,items:2,iskip:1,last:null}; window.AR.video={}; arPanel(true); }")
     txt=pg.inner_text('#arPanel .ar-sbar'); check("b296: 패널에 디버그 줄(분석 fps · 놓친 프레임) 안 보임", '분석 fps' not in txt and '놓친 프레임' not in txt, txt)
-    r0=pg.evaluate("!!window.AR.cfg.roi"); pg.evaluate("document.querySelector('#arPanel [data-ar=roi]').click()"); pg.wait_for_timeout(100)
-    check('b294: ROI 표시 토글', pg.evaluate("!!window.AR.cfg.roi")!=r0)
+    check('b363: 영역 보기(ROI) 토글 없음', not pg.evaluate("!!document.querySelector('#arPanel [data-ar=roi]')"))
     pg.evaluate("()=>{ window.AR.video=null; }")
     b.close()
 finally: srv.terminate()

diff --git a/HANDOFF.md b/HANDOFF.md
@@ -2,6 +2,16 @@
 
 다른 계정/다른 도우미가 이 저장소만으로 작업을 이어갈 수 있도록 정리한 문서입니다.
 
+## b363 (t677) 보스 득템 자동 기록 라이브 화면: '영역 보기' 버튼·영역 겹쳐 그리기 제거
+- src/autorec.js: 라이브 화면 제목의 `.ar-roib`(data-ar="roi") 버튼, 토글 처리(ARX.cfg.roi), arPrev 의 인식 영역 박스·라벨 그리기 삭제. 인식(arR 영역·감지 로직)은 그대로. 예전 저장값 cfg.roi 는 무시됨.
+- src/extra.css: .ar-roib 네온 버튼 선택자 제거.
+- 테스트: test_b287(ROI 토글 → 버튼 없음), test_b296(b297ui → 영역 보기 버튼·문구 없음), test_b301(영역 버튼 옆 라벨 → 해상도 라벨만) 수정.
+
+## b362 (t677) 에픽빔 기록지 클립 카드 4줄 제목 정렬
+- src/epicclip.js ecCard: 2~4줄 아이콘(보스·아이템·캐릭터 초상화, 없으면 ?)을 고정 칸 `<i class="ecic">` 로 감쌈, 날짜도 `<span>`.
+- src/extra.css: `.ectl>div` = grid(24px 아이콘 칸 + minmax(0,1fr) 글자, 간격 8px, 줄 최소 24px, align-items:center) → 2~4줄 글자 x 동일·세로 가운데. 아이콘 22px object-fit:contain 가운데, 초상화 24px 원형, 홍옥 반지는 큰 아이콘+작은 아이콘 겹침. 긴 글자는 한 줄 말줄임. 날짜 줄은 같은 왼쪽 패딩(아이콘 칸 왼쪽 끝). 모달(.ecmeta)은 기존 가로 배치 유지.
+- 테스트: tests/test_b362_ecalign.py (글자 x ±1px, 아이콘 칸 크기·x, 세로 가운데, 줄 높이, 말줄임, 다크/라이트 스크린샷), run_all.sh 등록.
+
 ## b361 (t671) 에픽빔: 캐릭터 위치에서 터지는 빔 감지(위치 이동 NCC) + 보상 맵 늦은 인식 대기
 - 원인(01M6E78KBP32FWS1TJ7Y1BH70F.mp4, 빔 ≈8.9초 '선택받은…' 공지와 동시): 빔이 화면 중앙이 아니라 캐릭터(왼쪽) 위치에서 터져 고정 위치 GIF NCC 최고 0.48(<0.66). 또 drawImage 32x18 축소가 표본 추출이라 점수가 흔들림. 10.76초 세로 기둥은 미트라 상자(빔 아님).
 - src/epicclip.js: `ecGrid` 로 32x18 칸 평균(area) 그레이; `ecNccShift` 템플릿을 x±10·y±4 칸 옮겨 겹친 부분 NCC(EC.last.ss); 연속 2프레임(0.6초 안) 모두 ≥`sTh`(.77) → hit(kind 'shift'), 시작 시각은 ss≥.5 로 올라가기 시작한 프레임. 기존 고정 NCC 규칙 그대로.
